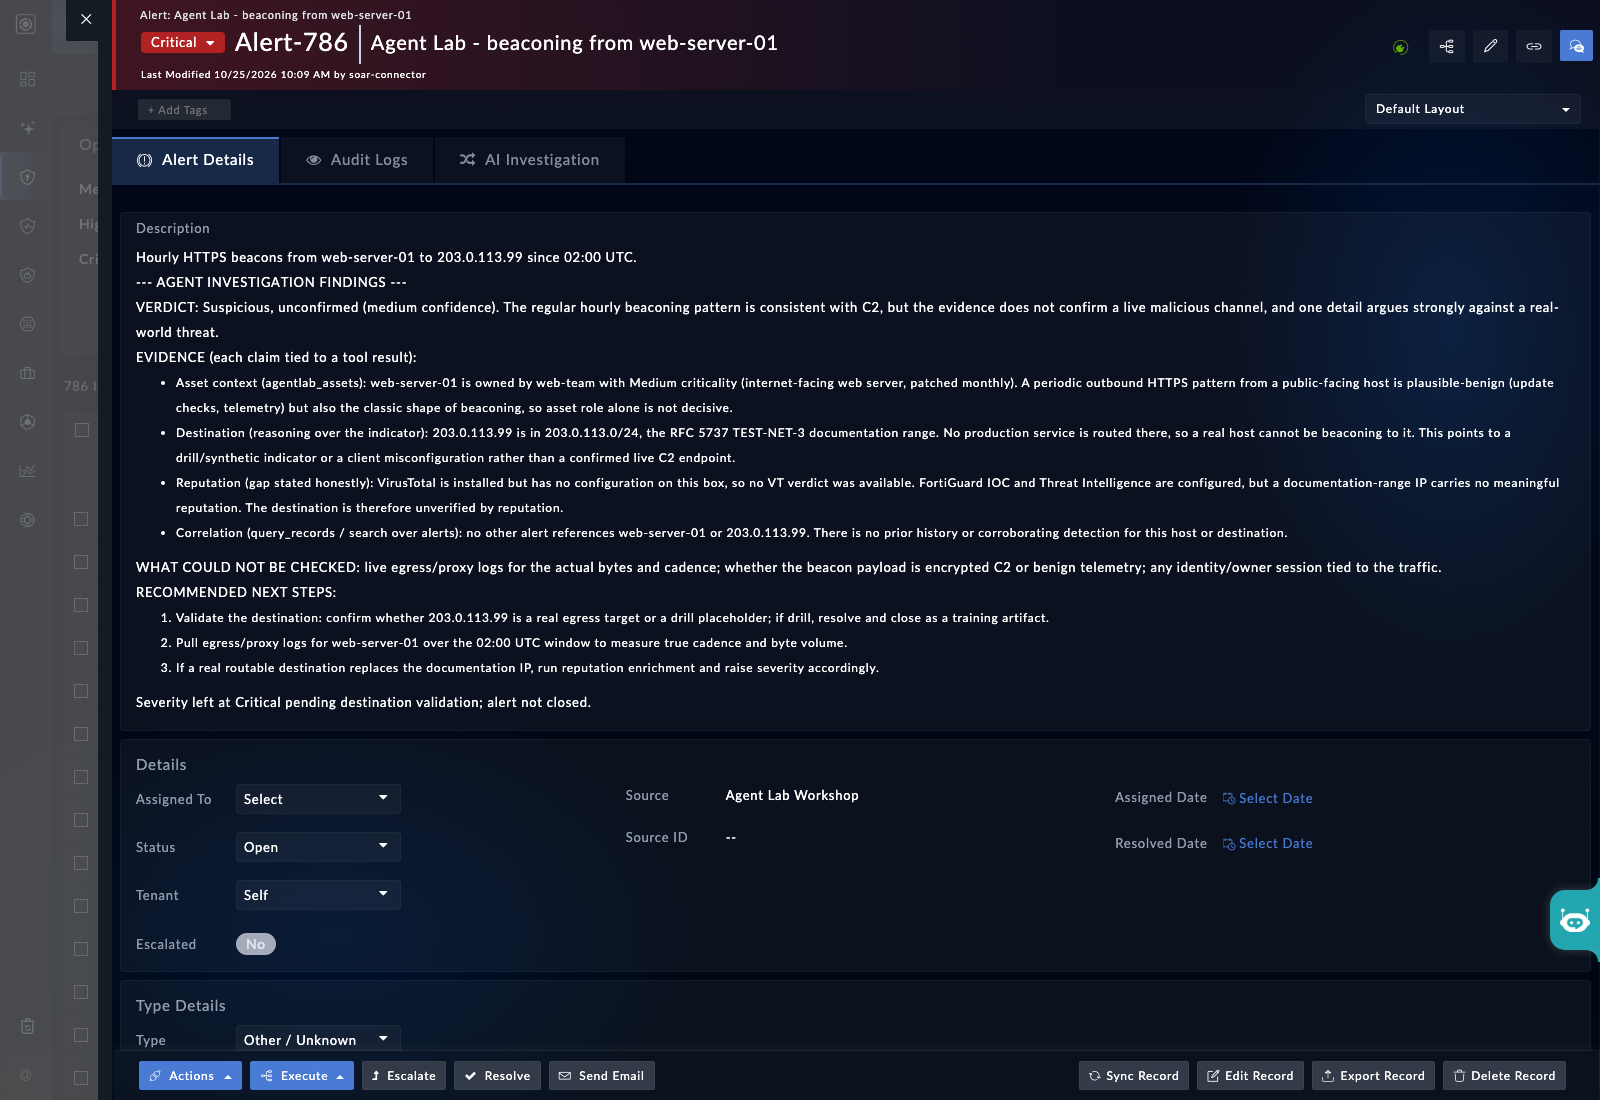
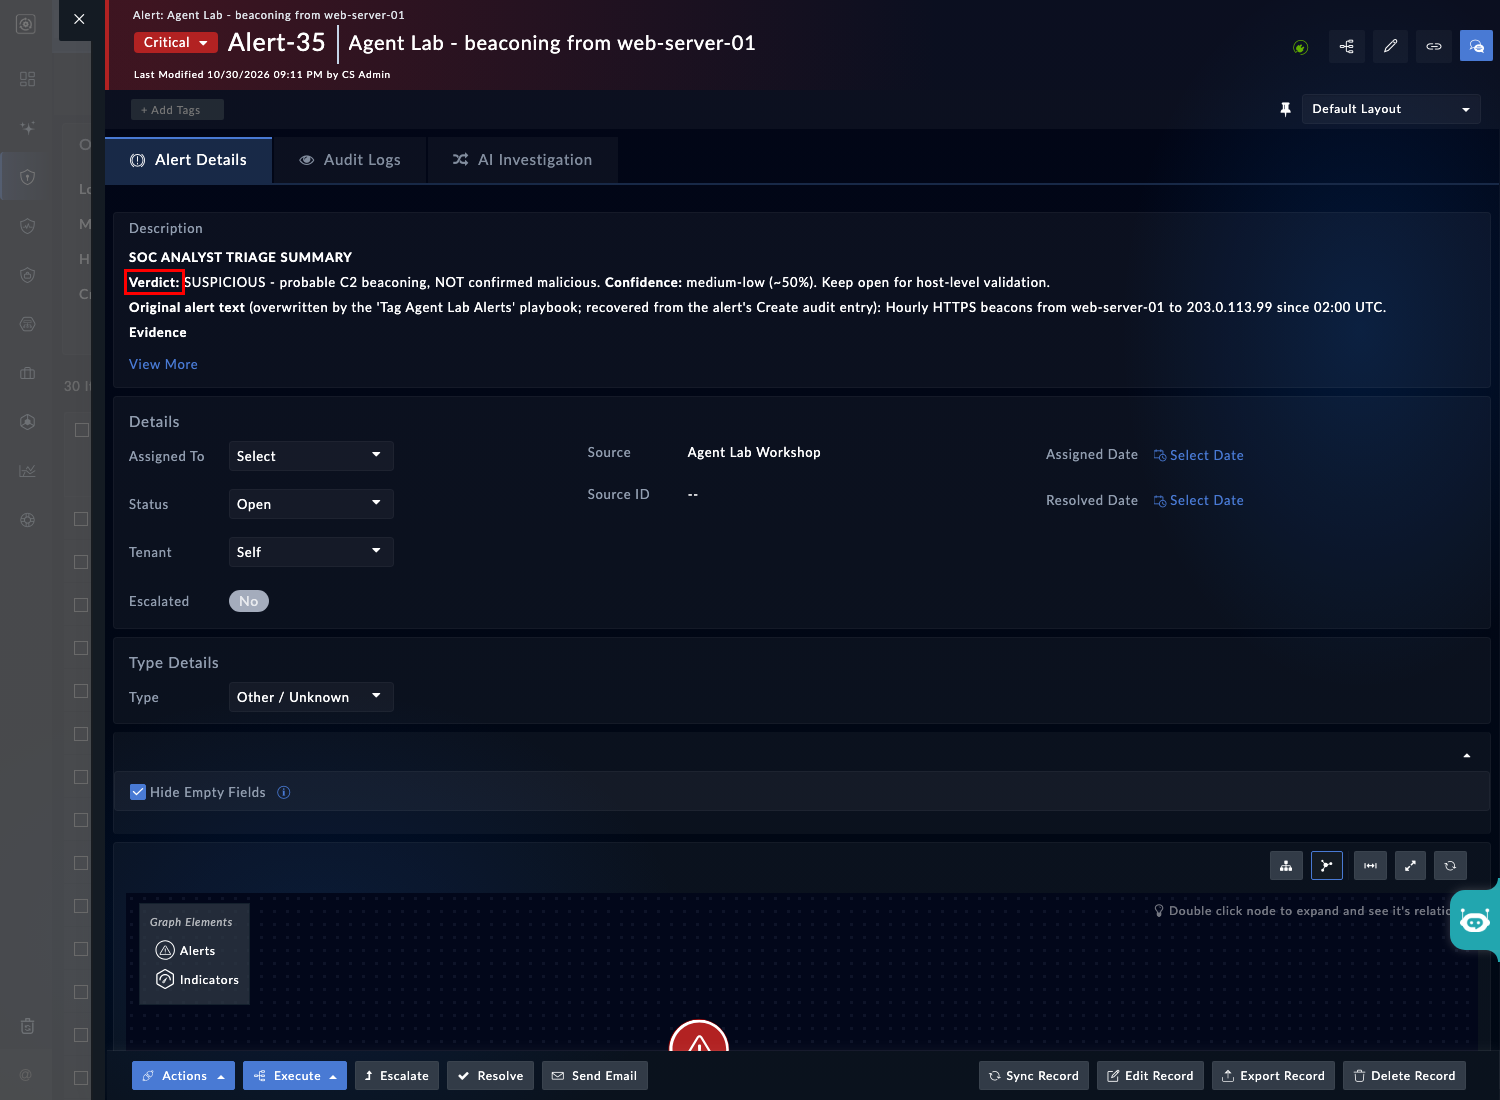
ch10: capstone captures; drop dumb masking; fix the findings UI shot tab
The capstone now has its three live captures: the agent staging the beaconing
alert, the agent investigating it (asset, enrichment, related alerts, verdict
reasoning, next steps), and the findings written back onto the alert. Drop the
uiMask (SKIP_RECORD keeps the scrub backstop) so the agent's reasoning reads.
The findings UI shot opens the Alert Details tab and scopes the verdict locator
to the description -- the AI Investigation tab's promo also contains the word
'verdict' and was capturing the wrong panel.

diff --git a/docubot/10-capstone-investigation/chapter.spec.ts b/docubot/10-capstone-investigation/chapter.spec.ts
@@ -17,7 +17,13 @@
 // Alerts") on the box. Ported from tools/e2e/10-capstone-investigation.spec.js.
 // Verify live with `docubot run --chapter 10-capstone-investigation`.
 import { expect, findAlert, openRecord, test } from 'docubot';
-import { labSeed, promptFor, shouldRunStep, startAgent, agentTurn, toolkit, uiMask } from '../lib/agentlab';
+import { labSeed, promptFor, shouldRunStep, startAgent, agentTurn, toolkit } from '../lib/agentlab';
+
+// Mask only truly sensitive values; the scrub backstop still refuses a real lab
+// IP, hostname, key or sensitive term. The alert record shows dates and record
+// UUIDs (read as key-like tokens but not secrets, and no real key renders on an
+// alert record), so those categories are skipped for this shot.
+const SKIP_RECORD = { scrubSkip: ['date-or-time', 'key-like-token'] };
 
 test.describe.configure({ mode: 'serial' });
 
@@ -139,13 +145,17 @@ test('chapter 10 - capstone investigation', async ({ gui, local, capture }) => {
       expect(alert, 'capstone alert not found in the UI: stage it (fsa10-01) first').toBeTruthy();
       alertId = alert!.id;
     }
-    await openRecord(soar, 'alerts', alertId!, { tab: null });
+    // Open the Alert Details tab, not whatever tab the record last showed: the
+    // findings are written into the alert DESCRIPTION, and the AI Investigation
+    // tab's empty-state promo also contains the word "verdict" (it would match
+    // the locator and capture the wrong panel). On Alert Details the only
+    // "verdict" on screen is the agent's write-back.
+    await openRecord(soar, 'alerts', alertId!, { tab: 'Alert Details' });
     const findings = soar.locator('#view-panel-content').getByText(/verdict/i).first();
     await expect(findings, 'findings not rendered on the alert: run fsa10-02 with SPEND_AI=1').toBeVisible({ timeout: 30_000 });
     await capture.shot(soar, 'fsa10-02-investigate-findings-on-alert', {
       highlight: findings,
-      mask: uiMask(soar),
-      scrub: false,
+      ...SKIP_RECORD,
     });
   });
 
